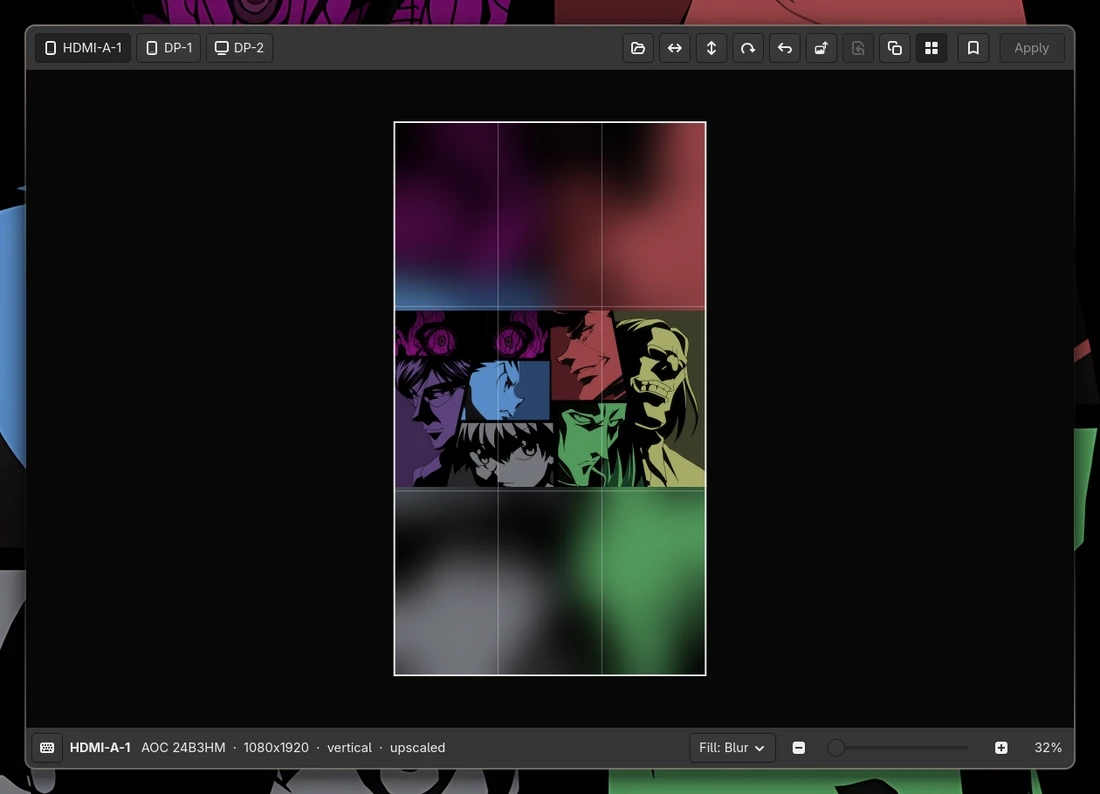
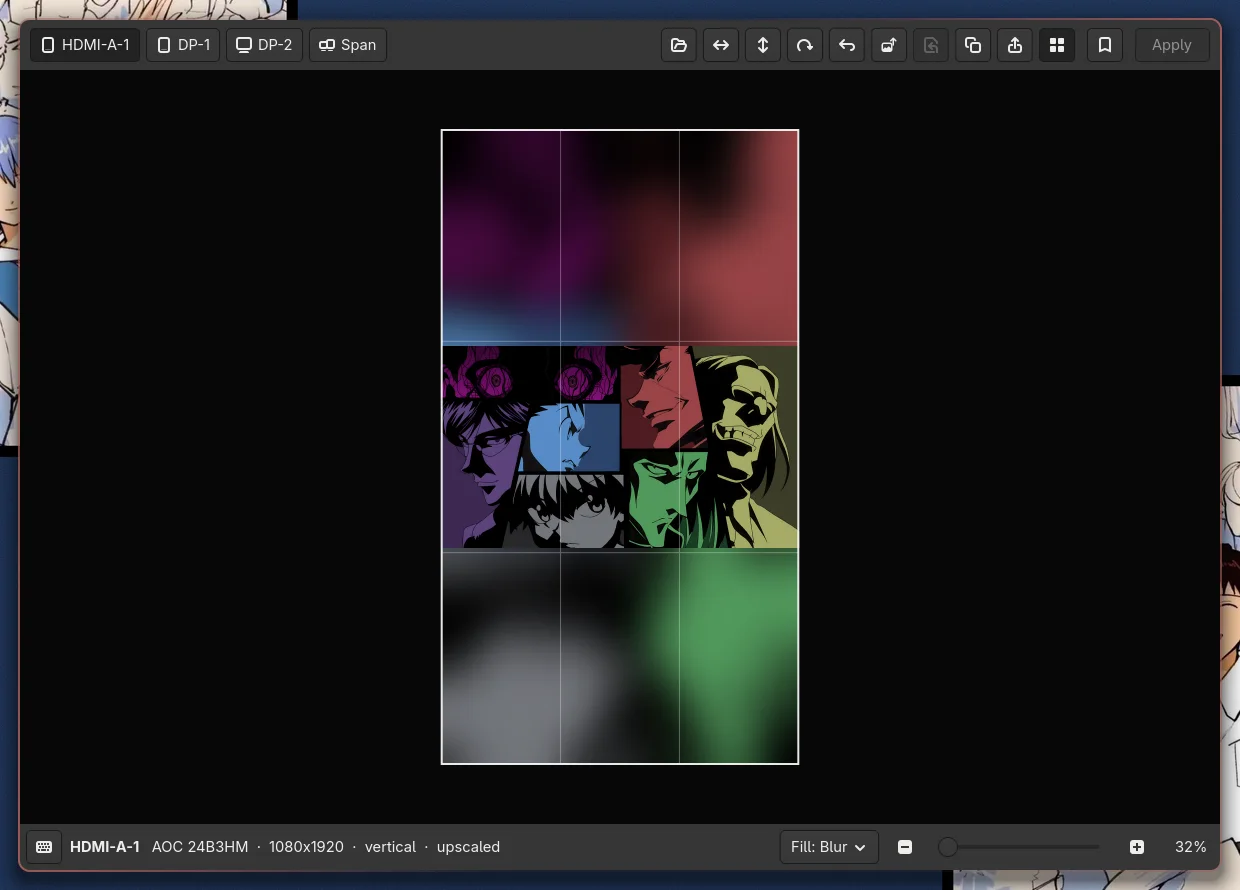
docs: refresh the screenshots and show the Desk tab and Export menu - Retake every screenshot of the window with the current UI - Add the Desk tab and the Export menu to the README

diff --git a/README.md b/README.md
@@ -125,6 +125,8 @@ for_window [app_id="io.github.AlejandroMinor.wallframe"] floating enable
 
 Zoom below 100% to see more of the image, or to make it smaller than the monitor. The empty space around it is filled with a copy of the image, blurred as much as you like, or with a color. Both are in the **Fill** panel of the bottom bar. Check **Move background** there (or press `B`) to drag and zoom that copy instead of the image. The **Export** button (the arrow in the top bar) has two ways out. **Export > Picture as it looks** saves exactly what is on the canvas, with its fill, to use it elsewhere. **Fill the empty space with an external AI** is for when you would rather let an image AI paint the empty space: **Picture and mask** saves the picture with the empty space in one solid color, and a mask of that space. If the fill is blur, or your fill color is close to colors in the picture, wallframe asks first: you can cancel and pick another color, or continue, and then it uses the vivid color least present in your picture. It also warns when more than half of the picture is empty space, because the AI invents everything it paints there. Each notice says how much of the picture is empty. **Copy the prompt** copies a ready text with that color and the size of the picture. Give the AI the text and both files, and open the result with `O`. A color that is not in the picture lets the AI tell the empty space from the scene. An AI may retouch your picture, for example a text. If it must stay exact, use a tool that respects the mask: it fills only the white area. If the picture leaves no empty space, there is nothing to fill, and wallframe says so.
 
+![The Export menu: the picture as it looks, or the picture and mask for an external AI, and its prompt](docs/export.webp)
+
 ![A landscape picture zoomed out on a portrait monitor, with the empty space filled by a blurred copy](docs/fill.webp)
 
 A dot on a monitor button means that the monitor does not show your changes yet. Apply crops the image to the exact size of the monitor and sets it with awww (or swww) on that monitor only. The window stays open.
@@ -133,7 +135,7 @@ wallframe saves the crops in `~/.local/share/wallframe/`. It does not use the ca
 
 The **Layouts** panel saves what every monitor shows: the picture and its framing. Each layout has a preview of your monitors as they stand on the desk (on Hyprland and sway; elsewhere side by side). Click a layout to show it on the monitors at once; the one they show is marked. Its menu renames it, saves the current wallpapers into it, duplicates it or deletes it. Layouts point at your pictures: if one was moved or deleted, that monitor stays as it was and wallframe says why, with the path where the picture was.
 
-![The Layouts panel with two saved layouts, one of them marked as the one the monitors show](docs/layouts.webp)
+![The Layouts panel with six saved layouts, one of them marked as the one the monitors show](docs/layouts.webp)
 
 ### One picture across all monitors
 
@@ -168,6 +170,8 @@ All of this is done in the editor, while arranging, with the **Arrange** button 
 3. **Angle.** If the diagonals still look bent, give that monitor an angle: `.` adds 1° and `,` removes 1° (`:` and `;` for 5°). A negative angle does the opposite. If a monitor leans back or forward, `<` and `>` do the same up and down. The angle also changes the separation between the monitors by itself. Step 4 fixes that.
 4. **Separation.** Your real monitors have bezels, so there is a gap between the screens. In the canvas, the distance between two frames is that gap: it decides how much of the picture is skipped between them. Move the frame of the outer monitor with the left and right arrow keys, a few millimeters at a time, until what crosses the join looks like one picture. If it gets worse, go the other way.
 5. **Save it.** The **Desk** tab of the Layouts panel saves the places and the angles under a name. If a monitor moves later, bring the arrangement back with one click. Apply puts it on the monitors.
+
+![The Desk tab of the Layouts panel, with a saved desk arrangement](docs/desk.webp)
 
 Everything you do here can feel backwards, whether it is the arrow keys, dragging a frame or an angle. A frame is a window over the picture, and you move the window, not what you see on the real screen. If you move a frame down, the monitor shows a lower part of the picture, so what you see on the screen goes up. If you give a monitor more angle, its frame gets narrower, so the screen shows a smaller part of the picture and what you see looks bigger.
 
